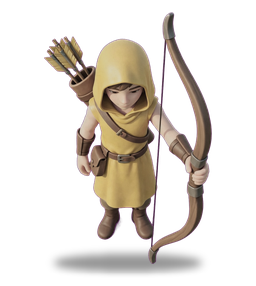
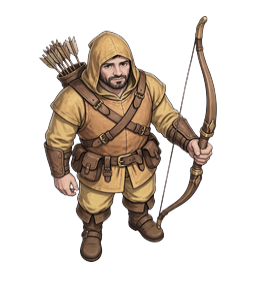
v30: personaggi di Muse (oro/blu), 4 nuove unità
Claude-Session: https://claude.ai/code/session_01EeKiG8y1kcPbdSHUHGW8AA

diff --git a/www/index.html b/www/index.html
@@ -179,7 +179,7 @@ body.gpui #ovStart .card h1{font-size:0;flex:none;height:118px;margin:-4px 0 0;b
       <li>Vinci tenendo entrambe le stazioni meteo per 2 round di fila, o eliminando tutte le unità nemiche.</li>
       <li>Ogni turno muovi e attacca con le tue unità, poi tocca Fine turno. Chi muove per primo si alterna a ogni round.</li>
       <li>Il meteo del round dopo è annunciato in alto. Col vento, i cerchi tratteggiati mostrano dove finiranno le unità.</li>
-      <li>Ogni 3 round arriva un rinforzo gratuito: scegli una di due unità, la stessa offerta per te e per il computer. Con la base libera puoi anche reclutare spendendo monete (non nel livello Facile): Guerriero, Arciere, Esploratore, Cavaliere (veloce e forte) e Sciamano (spinge i nemici).</li>
+      <li>Ogni 3 round arriva un rinforzo gratuito: scegli una di due unità, la stessa offerta per te e per il computer. Con la base libera puoi anche reclutare spendendo monete (non nel livello Facile): Guerriero, Lanciere, Arciere, Balestriere, Esploratore, Cavaliere, Sciamano (spinge i nemici), Guaritore (cura i vicini) e Alfiere (dà 1 passo in più ai vicini).</li>
       <li>La mappa è grande: pizzica con due dita per ingrandire, trascina per spostarti, oppure usa i pulsanti + e −.</li>
       <li>Il vulcano al centro erutta ogni 4 round: chi è vicino si ferisce e il prato attorno diventa cenere.</li>
       <li>Le due stazioni meteo danno +1 moneta a round a chi le occupa e mostrano un round di meteo in più.</li>
@@ -264,7 +264,11 @@ const UT={
   G:{n:'Guerriero',hp:10,atk:4,mv:2,rg:1,cost:3,d:'Resistente, colpisce da vicino'},
   A:{n:'Arciere',hp:6,atk:4,mv:2,rg:2,cost:3,d:'Colpisce da 2 caselle'},
   K:{n:'Cavaliere',hp:8,atk:5,mv:4,rg:1,cost:5,d:'Veloce e forte, ma il bosco e la cenere lo frenano (3 passi)'},
-  W:{n:'Sciamano',hp:6,atk:2,mv:2,rg:2,cost:4,d:'Da 2 caselle spinge il nemico di una; contro un ostacolo fa +1'}
+  W:{n:'Sciamano',hp:6,atk:2,mv:2,rg:2,cost:4,d:'Da 2 caselle spinge il nemico di una; contro un ostacolo fa +1'},
+  L:{n:'Lanciere',hp:9,atk:3,mv:2,rg:1,cost:3,d:'Resistente: contrattacca con tutta la forza'},
+  H:{n:'Guaritore',hp:6,atk:1,mv:3,rg:1,cost:4,d:'A inizio turno cura di 2 vita le unità amiche vicine'},
+  B:{n:'Balestriere',hp:5,atk:5,mv:1,rg:3,cost:5,d:'Colpisce da 3 caselle, ma si muove di una sola'},
+  R:{n:'Alfiere',hp:7,atk:2,mv:3,rg:1,cost:4,d:'Le unità amiche vicine a lui fanno 1 passo in più'}
 };
 const WE={
   sereno:{n:'Sereno',d:'Nessun effetto.'},
@@ -332,7 +336,7 @@ const tileAt=(g,x,y)=>g.map[y][x];
 const unitAt=(g,x,y)=>g.units.find(u=>u.x===x&&u.y===y);
 const wNow=g=>g.wx[g.round-1];
 const wNext=g=>g.wx[g.round];
-function mvOf(g,u){let v=UT[u.t].mv;if(wNow(g).t==='pioggia')v=Math.max(1,v-1);return v}
+function mvOf(g,u){let v=UT[u.t].mv;if(u.t!=='R'&&g.units.some(a=>a.o===u.o&&a.t==='R'&&a!==u&&md(a,u)<=1))v+=1;if(wNow(g).t==='pioggia')v=Math.max(1,v-1);return v}
 function rgOf(g,u){let v=UT[u.t].rg;if(wNow(g).t==='nebbia')v=Math.min(v,1);return v}
 function atkOf(g,u){let v=UT[u.t].atk;if(wNow(g).t==='pioggia'&&UT[u.t].rg>1)v=Math.max(1,v-1);return v}
 function stepCost(g,x,y,u){
@@ -386,7 +390,7 @@ function hitOf(g,a,d,ax,ay){
   const info=pushInfo(g,a,d,ax,ay),bump=info&&info.bump?1:0;
   return {dm:dmgOf(g,a,d)+bump,bump,push:info&&info.x!==undefined?{x:info.x,y:info.y}:null};
 }
-function counterOf(g,d,a){let c=Math.max(1,atkOf(g,d)-1);if(tileAt(g,a.x,a.y)==='F')c-=1;return Math.max(1,c)}
+function counterOf(g,d,a){let c=Math.max(1,atkOf(g,d)-(d.t==='L'?0:1));if(tileAt(g,a.x,a.y)==='F')c-=1;return Math.max(1,c)}
 function addFx(g,x,y,txt,col,delay){g.fx.push({x,y,txt,col,life:1,delay:delay||0})}
 function pathTo(g,u,x,y){ // percorso più economico dalla casella attuale a (x,y), con le stesse regole di reach()
   const bud=mvOf(g,u),best=new Map([[u.x+','+u.y,0]]),par=new Map(),q=[[u.x,u.y,0]];
@@ -446,7 +450,7 @@ function norec(g){const L=AI_LEVELS[g.lvl];return !!(L&&L.norec)}
 function rfEvery(g){return 3}
 function rfMake(g){
   if(g.round<=rfEvery(g)||(g.round-1)%rfEvery(g)!==0||g.round>=MAXR-1){g.rf=null;return}
-  const w=wNow(g).t,W0={sereno:{G:1,A:1,E:1,K:1,W:1},vento:{G:1,A:1,E:1.6,K:1.8,W:1.5},pioggia:{G:2,A:1.4,E:.8,K:.8,W:1},nebbia:{G:1.6,A:.5,E:2,K:1,W:1},gelo:{G:2,A:1,E:.8,K:1.5,W:.8}}[w]||{G:1,A:1,E:1,K:1,W:1};
+  const w=wNow(g).t,W0={sereno:{G:1,A:1,E:1,K:1,W:1,L:1,H:1,B:1,R:1},vento:{G:1,A:1,E:1.6,K:1.8,W:1.5,L:1,H:1,B:.6,R:1.5},pioggia:{G:2,A:1.4,E:.8,K:.8,W:1,L:1.6,H:1.5,B:.5,R:1},nebbia:{G:1.6,A:.5,E:2,K:1,W:1,L:1.2,H:1,B:.3,R:1.2},gelo:{G:2,A:1,E:.8,K:1.5,W:.8,L:1.5,H:1.4,B:.8,R:1}}[w]||{G:1,A:1,E:1,K:1,W:1,L:1,H:1,B:1,R:1};
   let sd=((g.seed*2654435761)^(g.round*40503))>>>0;const rn=()=>{sd=(Math.imul(sd^(sd>>>15),2246822519)+3266489917)>>>0;sd^=sd>>>13;return(sd>>>0)/4294967296};
   const pool=Object.entries(W0),ch=[];
   while(ch.length<2){const tot=pool.filter(([k])=>!ch.includes(k)).reduce((a,[,v])=>a+v,0);let r=rn()*tot;for(const[k,v]of pool){if(ch.includes(k))continue;if(r<v){ch.push(k);break}r-=v}}
@@ -576,6 +580,7 @@ function heldBy(g,o){return STATIONS.filter(s=>{const u=unitAt(g,s.x,s.y);return
 // g.turn = a chi tocca adesso (0 giocatore, 1 computer); g.step = 0 primo a muovere, 1 secondo.
 function startTurnOf(g,o){
   g.turn=o;g.lastRec=0;
+  g.units.filter(h=>h.o===o&&h.t==='H').forEach(h=>{for(const u of g.units)if(u.o===o&&u!==h&&md(h,u)<=1&&u.hp<UT[u.t].hp){const n=Math.min(2,UT[u.t].hp-u.hp);u.hp+=n;addFx(g,u.x,u.y,'+'+n,'#8fe39a',.1)}});
   g.units.forEach(u=>{if(u.o===o){u.moved=false;u.done=false;u.aid=false;u.px=undefined;u.py=undefined}});
 }
 function endTurn(g){
@@ -659,9 +664,9 @@ function aiChoose(g,u,noise){
       }
       const urg=Math.max(0.12,1-(g.round-1)/10);
       s-=exp*(u.hp<=exp?1.8*urg:0.45*urg);
-      if(UT[u.t].rg===2&&known.length){
+      if(UT[u.t].rg>=2&&known.length){
         const dn=Math.min(...known.map(e=>md(p,e)));
-        if(dn===2)s+=1.5;
+        if(dn===UT[u.t].rg)s+=1.5;
       }
       s-=c*0.05;
       s+=Math.random()*nz;
@@ -719,7 +724,7 @@ function aiStep(g,o,lv){
     // ogni tanto risparmia per un Cavaliere
     const save=c>=3&&c<5&&g.units.filter(u=>u.o===o).length>=3&&Math.random()<.3;
     if(c>=2&&!save&&!canRecruit(g,o,'E')){
-      const pool=[['G',.28],['A',.28],['E',.14],['K',.16],['W',.14]].filter(([k])=>UT[k].cost<=c);
+      const pool=[['G',.28],['A',.28],['E',.14],['K',.16],['W',.14],['L',.16],['H',.08],['B',.1],['R',.08]].filter(([k])=>UT[k].cost<=c);
       let r=Math.random()*pool.reduce((a,[,w])=>a+w,0),t=pool[0][0];
       for(const [k,w] of pool){if(r<w){t=k;break}r-=w}
       if(!canRecruit(g,o,t)&&doRecruit(g,o,t))return {recruit:t};
@@ -739,6 +744,12 @@ const LS={
 let LOOK=LS.get('isole-look')===null?5:(+LS.get('isole-look')||0);
 /* Registro modifiche: la prima voce è la versione attuale. Si aggiorna a ogni modifica. */
 const CHANGELOG=[
+{v:30,d:'23 nov 2026',t:'Nuovi personaggi e squadra blu',n:[
+'Con «Grafica di prova» accesa: tutte le pedine sono i nuovi disegni di Muse (consegna personaggi), oro per te e BLU per il computer',
+'4 nuove unità: Lanciere (resistente, contrattacca a piena forza), Guaritore (a inizio turno cura di 2 i vicini), Balestriere (3 caselle di gittata, ma 1 solo passo), Alfiere (i vicini fanno 1 passo in più)',
+'Entrano nei rinforzi (secondo il meteo), nel reclutamento e nel computer',
+'Basi, bandiere e colori dell’interfaccia sono ancora viola: da allineare al blu'
+]},
 {v:29,d:'22 nov 2026',t:'Pedine visibili dietro agli alberi',n:[
 'Quando una pedina sta dietro ad albero, montagna o vulcano, è l’oggetto a diventare trasparente: la pedina resta dietro ma si vede'
 ]},
@@ -1019,8 +1030,9 @@ function gpLoad(){
 const GO={im:{},names:['pino_a','pino_b','pino_c','boschetto_a','boschetto_b','montagna_a','montagna_b','stazione_0','stazione_40','stazione_80','stazione_f00','stazione_f01','stazione_f02','stazione_f03','stazione_f04','stazione_f05','stazione_f06','stazione_f07','stazione_f08','stazione_f09','stazione_f10','stazione_f11','stazione_f12','stazione_f13','stazione_f14','stazione_f15','stazione_f16','stazione_f17','stazione_f18','stazione_f19','stazione_f20','stazione_f21','stazione_f22','stazione_f23','bandiera_oro_1','bandiera_oro_2','bandiera_viola_1','bandiera_viola_2','terreno_vulcano_calmo','terreno_vulcano_arde','terreno_vulcano_eruttato'],
   A:{pino_a:356,pino_b:296,pino_c:340,boschetto_a:316,boschetto_b:312,montagna_a:256,montagna_b:231,stazione_0:296,stazione_40:296,stazione_80:296,stazione_f00:296,stazione_f01:296,stazione_f02:296,stazione_f03:296,stazione_f04:296,stazione_f05:296,stazione_f06:296,stazione_f07:296,stazione_f08:296,stazione_f09:296,stazione_f10:296,stazione_f11:296,stazione_f12:296,stazione_f13:296,stazione_f14:296,stazione_f15:296,stazione_f16:296,stazione_f17:296,stazione_f18:296,stazione_f19:296,stazione_f20:296,stazione_f21:296,stazione_f22:296,stazione_f23:296,bandiera_oro_1:320,bandiera_oro_2:320,bandiera_viola_1:320,bandiera_viola_2:320}};
 function goLoad(){for(const n of GO.names){const im=new Image();im.onload=()=>{GO.im[n]=im};im.src='assets/oggetti/'+n+'.png'}}
-const GU={im:{},H:{esploratore:264,guerriero:245,arciere:286,cavaliere:316,sciamano:294},T:{E:'esploratore',G:'guerriero',A:'arciere',K:'cavaliere',W:'sciamano'}};
-function guLoad(){for(const t of Object.keys(GU.H))for(const c of['oro','viola'])for(const pz of['normale','stanca']){const n=t+'_'+c+'_'+pz,im=new Image();im.onload=()=>{GU.im[n]=im};im.src='assets/pedine/'+n+'.png'}}
+const GU={im:{},H:{esploratore:264,guerriero:245,arciere:286,cavaliere:316,sciamano:294,lanciere:300,guaritore:280,balestriere:270,alfiere:320},T:{E:'esploratore',G:'guerriero',A:'arciere',K:'cavaliere',W:'sciamano',L:'lanciere',H:'guaritore',B:'balestriere',R:'alfiere'}};
+function guLoad(){for(const t of Object.keys(GU.H))for(const c of['oro','blu'])for(const pz of['normale','stanca']){const n=t+'_'+c+'_'+pz,im=new Image();im.onload=()=>{GU.im[n]=im};im.src='assets/pedine/'+n+'.png'}}
+function ICO(t){return ['G','A','E','K','W'].includes(t)?'interfaccia/icona_unita_'+GU.T[t]+'.png':'pedine/'+GU.T[t]+'_oro_normale.png'}
 function guReady(){return gpReady()&&!!GU.im.esploratore_oro_normale}
 const GE={im:{},names:['eff_goccia','eff_fiocco_a','eff_fiocco_b','eff_foglia_a','eff_foglia_b','eff_cenere','eff_colpo','eff_colpo_critico','eff_taglio','eff_freccia','eff_scintilla','eff_onda_vento','eff_lava_a','eff_lava_b','eff_fumo','eff_cenere_caduta','meteo_pioggia','meteo_nebbia','meteo_gelo','meteo_vento','ui_casella_libera','ui_casella_attacco','ui_casella_pericolo','ui_anello_selezione']};
 const GT={im:{},names:['terreno_terra_a','terreno_terra_b','terreno_terra_c','terreno_sabbia_a','terreno_sabbia_b','terreno_sabbia_c','terreno_erbasecca_a','terreno_erbasecca_b','terreno_erbasecca_c','terreno_fango_a','terreno_fango_b','terreno_sassi_a','terreno_sassi_b','terreno_sassi_c','bordo_sabbia_lago_a','bordo_sabbia_lago_b','dettaglio_fiori_a','dettaglio_fiori_b','dettaglio_fiori_c','dettaglio_ciuffi_a','dettaglio_ciuffi_b','dettaglio_ciuffi_c','dettaglio_sassi_a','dettaglio_sassi_b','dettaglio_sassi_c','dettaglio_funghi_a','dettaglio_funghi_b','dettaglio_foglie_a','dettaglio_foglie_b'],pr:['terreno_prato_c','terreno_prato_d','terreno_prato_e','terreno_prato_f','terreno_prato_g','terreno_prato_h']};
@@ -1150,7 +1162,7 @@ function refreshUI(){renderTop();renderInfo();renderBtns();tutCheck();rfCheck()}
 
 /* --- tutorial guidato: passi con evidenziazione, alcuni si completano toccando davvero --- */
 const TUT=[
-  {t:'Tu sei giallo, il computer viola. Vinci tenendo le due stazioni meteo per 2 round di fila, o eliminando tutte le sue unità.',tiles:()=>[...STATIONS]},
+  {t:'Tu sei oro, il computer è l’altra squadra. Vinci tenendo le due stazioni meteo per 2 round di fila, o eliminando tutte le sue unità.',tiles:()=>[...STATIONS]},
   {t:'Tocca una tua unità gialla per sceglierla.',inter:true,tiles:()=>g.units.filter(u=>u.o===0).map(u=>({x:u.x,y:u.y})),done:()=>!!sel&&sel.o===0},
   {t:'Con l’unità scelta tocca una casella chiara. Boschi e cenere costano 2 passi.',inter:true,done:()=>g.units.some(u=>u.o===0&&u.px!==undefined)},
   {t:'Tocca il nemico cerchiato di rosso per attaccare. Rosso: danno. Arancio: contrattacco.',tiles:()=>g.units.filter(u=>u.o===1&&sees(g,0,u)).map(u=>({x:u.x,y:u.y}))},
@@ -1200,10 +1212,10 @@ function legend(){
   $('wl').innerHTML=Object.keys(WE).map(k=>`<div><b>${WE[k].n}</b>${WE[k].d}</div>`).join('');
 }
 function rfSheet(){
-  const l=$('rfList');l.innerHTML='';const ic={G:'guerriero',A:'arciere',E:'esploratore',K:'cavaliere',W:'sciamano'};
+  const l=$('rfList');l.innerHTML='';const ic=GU.T;
   for(const t of g.rf.ch){
     const b=document.createElement('button');b.type='button';b.className='rec';
-    b.innerHTML=(GP.on?`<img class="ui" src="assets/interfaccia/icona_unita_${ic[t]}.png" alt="">`:'')+`<div class="t"><div class="n">${UT[t].n}</div><div class="d">${UT[t].d} · vita ${UT[t].hp}</div></div>`;
+    b.innerHTML=(GP.on?`<img class="ui" src="assets/${ICO(t)}" alt="">`:'')+`<div class="t"><div class="n">${UT[t].n}</div><div class="d">${UT[t].d} · vita ${UT[t].hp}</div></div>`;
     b.onclick=()=>{const ok=rfTake(g,0,t);$('ovRf').hidden=true;sfx('recruit');sel=null;inspect=null;toast(ok?UT[t].n+' arriva sulla tua base':'Nessun posto libero: rinforzo perso');saveGame();refreshUI()};
     l.appendChild(b);
   }
@@ -1215,10 +1227,10 @@ function rfCheck(){
 function recSheet(){
   const l=$('recList');l.innerHTML='';
   let why='';
-  for(const t of ['G','A','E','K','W']){
+  for(const t of ['G','L','A','B','E','K','W','H','R']){
     const r=canRecruit(g,0,t);if(r&&!why)why=r;
     const b=document.createElement('button');b.type='button';b.className='rec';b.disabled=!!r;
-    b.innerHTML=(GP.on?`<img class="ui" src="assets/interfaccia/icona_unita_${{G:'guerriero',A:'arciere',E:'esploratore',K:'cavaliere',W:'sciamano'}[t]}.png" alt="">`:'')+`<div class="t"><div class="n">${UT[t].n}</div><div class="d">${UT[t].d} · vita ${UT[t].hp} · att. ${UT[t].atk} · passi ${UT[t].mv}</div></div><div class="p">${UT[t].cost}</div>`;
+    b.innerHTML=(GP.on?`<img class="ui" src="assets/${ICO(t)}" alt="">`:'')+`<div class="t"><div class="n">${UT[t].n}</div><div class="d">${UT[t].d} · vita ${UT[t].hp} · att. ${UT[t].atk} · passi ${UT[t].mv}</div></div><div class="p">${UT[t].cost}</div>`;
     b.onclick=()=>{if(doRecruit(g,0,t)){g.lastRec=g.units[g.units.length-1].id;sfx('recruit');$('ovRec').hidden=true;sel=null;inspect=null;toast(UT[t].n+' reclutato');refreshUI()}};
     l.appendChild(b);
   }
@@ -1623,6 +1635,10 @@ function drawGlyph(t,x,y,r,col){
     for(let i=0;i<=44;i++){const a=i/44*Math.PI*3.3,rad=r*(.06+.58*i/44);const px=Math.cos(a)*rad,py=Math.sin(a)*rad;if(i)ctx.lineTo(px,py);else ctx.moveTo(px,py)}
     ctx.stroke();
   }
+  else if(t==='L'){ctx.beginPath();ctx.moveTo(0,r*.7);ctx.lineTo(0,-r*.5);ctx.stroke();ctx.beginPath();ctx.moveTo(-r*.22,-r*.2);ctx.lineTo(0,-r*.7);ctx.lineTo(r*.22,-r*.2);ctx.closePath();ctx.fill()}
+  else if(t==='H'){ctx.beginPath();ctx.moveTo(0,-r*.6);ctx.lineTo(0,r*.6);ctx.moveTo(-r*.6,0);ctx.lineTo(r*.6,0);ctx.stroke()}
+  else if(t==='B'){ctx.beginPath();ctx.moveTo(-r*.5,0);ctx.lineTo(r*.62,0);ctx.stroke();ctx.beginPath();ctx.moveTo(-r*.2,-r*.55);ctx.lineTo(-r*.05,0);ctx.lineTo(-r*.2,r*.55);ctx.stroke();ctx.beginPath();ctx.moveTo(r*.62,0);ctx.lineTo(r*.32,-r*.22);ctx.lineTo(r*.32,r*.22);ctx.closePath();ctx.fill()}
+  else if(t==='R'){ctx.beginPath();ctx.moveTo(-r*.35,r*.7);ctx.lineTo(-r*.35,-r*.6);ctx.stroke();ctx.beginPath();ctx.moveTo(-r*.35,-r*.6);ctx.lineTo(r*.55,-r*.3);ctx.lineTo(-r*.35,0);ctx.closePath();ctx.fill()}
   else{ctx.beginPath();ctx.moveTo(-r*.5,r*.15);ctx.lineTo(0,-r*.4);ctx.lineTo(r*.5,r*.15);ctx.stroke();ctx.beginPath();ctx.moveTo(-r*.5,r*.62);ctx.lineTo(0,r*.07);ctx.lineTo(r*.5,r*.62);ctx.stroke()}
   ctx.restore();
 }
@@ -1664,7 +1680,7 @@ function drawUnit(u,hidden,sc,al){
   ctx.globalAlpha=(tired?.55:1)*(al===undefined?1:al);
   if(ast&&ast!=='done'&&!(sel===u))actMarks(u,x,gy,ast,false);
   if(guReady()){ // pedina disegnata da Muse (prova): l'ombra è già nel disegno
-    const tn=GU.T[u.t],pz=tired?'stanca':'normale',im=GU.im[tn+'_'+(u.o===0?'oro':'viola')+'_'+pz];
+    const tn=GU.T[u.t],pz=tired?'stanca':'normale',im=GU.im[tn+'_'+(u.o===0?'oro':'blu')+'_'+pz];
     if(im){
       const k=cs/256*1.06,h=GU.H[tn],walking=!!(u.path&&u.path.length)&&!REDUCE;
       let hop=0,lean=0,sy=1;

diff --git a/CHANGELOG.md b/CHANGELOG.md
@@ -2,6 +2,11 @@
 
 (Lo stesso registro è dentro il gioco: menu iniziale → «Novità e registro modifiche».)
 
+## v30 — 23 nov 2026 · Nuovi personaggi e squadra blu
+- Pedine di Muse (9 unità, oro/blu, normale/stanca) con «Grafica di prova»; il computer è blu
+- Nuove unità: Lanciere, Guaritore, Balestriere, Alfiere (rinforzi, reclutamento, computer)
+- Ancora da allineare al blu: basi, bandiere, interfaccia
+
 ## v29 — 22 nov 2026 · Pedine visibili dietro agli oggetti
 - Oggetti (alberi, montagne, vulcano) trasparenti quando davanti a una pedina: la pedina resta dietro
 

diff --git a/muse/2026-11-23-personaggi-v2/RISPOSTA.md b/muse/2026-11-23-personaggi-v2/RISPOSTA.md
@@ -1,0 +1,4 @@
+# Risposta — Gruppo 10 personaggi
+
+Integrato (con «Grafica di prova»): 36 PNG (v2, con guerriero blu dalla v3) in `www/assets/pedine/`, nomi `<unita>_<oro|blu>_<normale|stanca>.png`. Vecchi file viola rimossi. Ancore e altezze usate come da ISTRUZIONI.md.
+Restano viola: basi (`base_viola`), bandiere (`oggetto_bandiera_viola_*`), schermata sconfitta, colore interfaccia. Da concordare con Davide.
